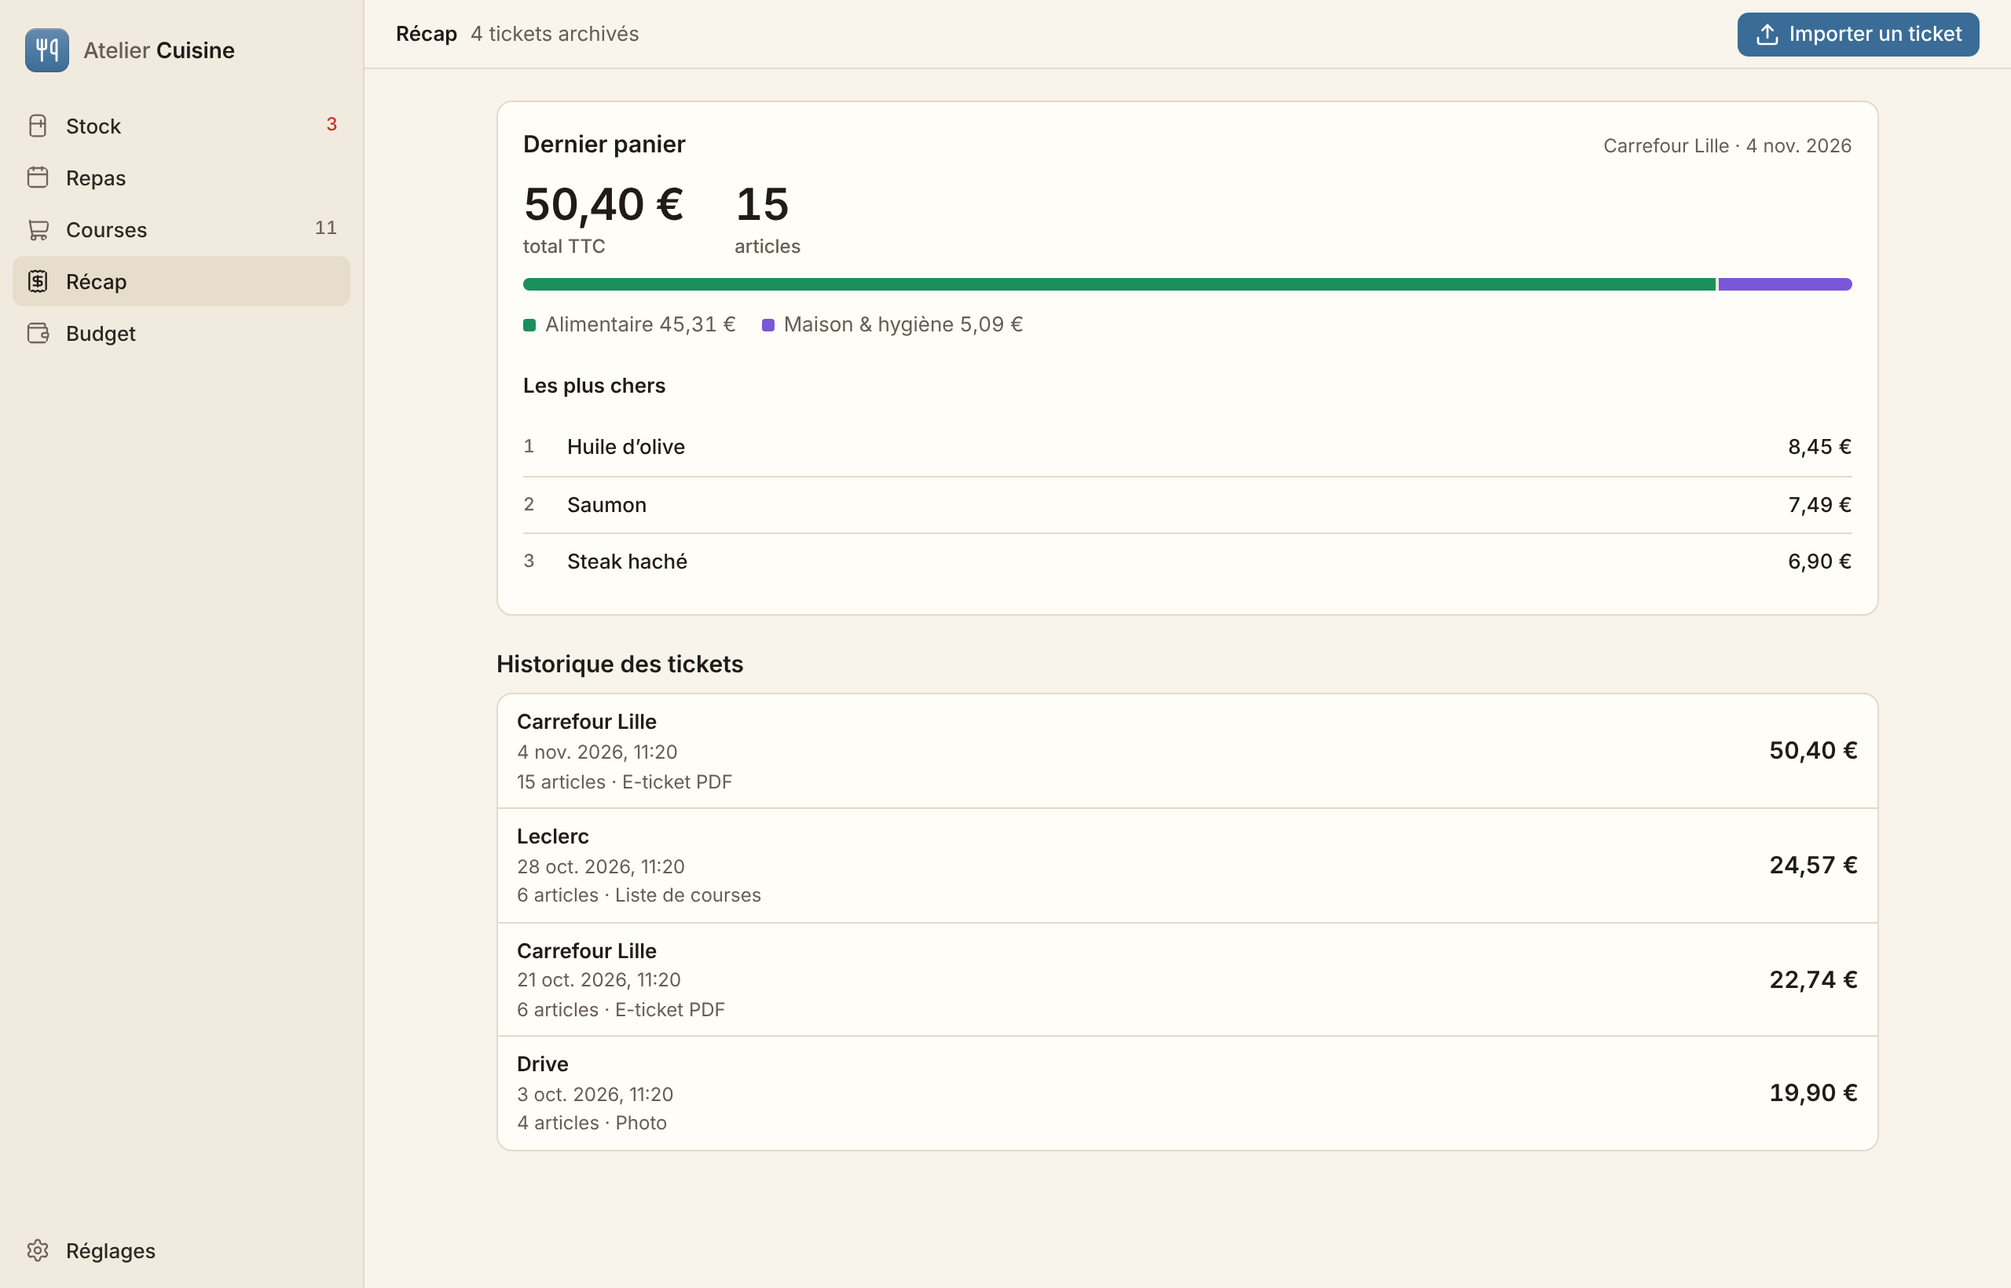
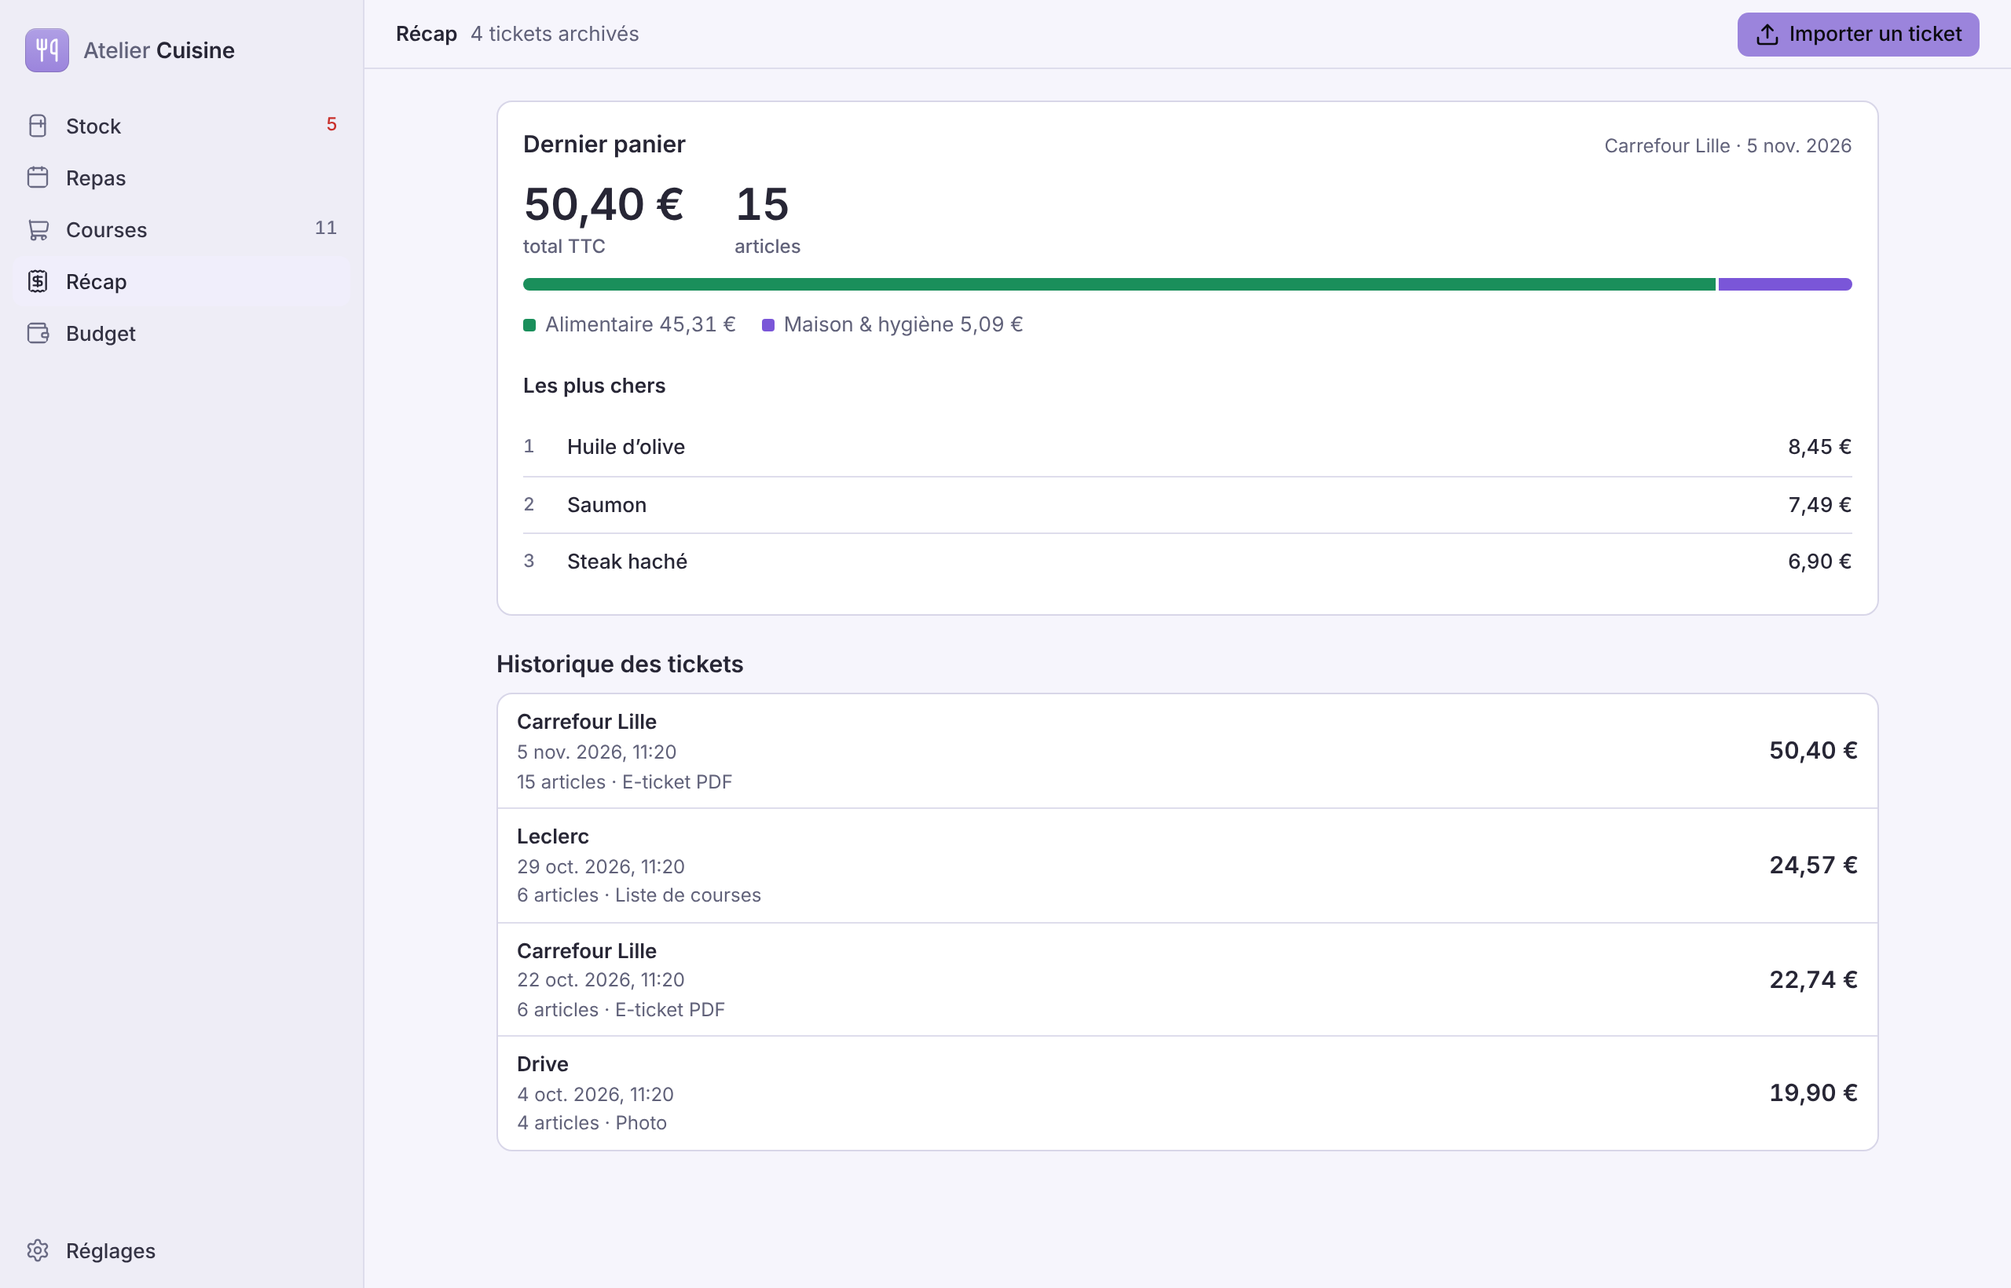
docs(design): couleurs d'avant la v2, lilas pastel
DESIGN.md, CLAUDE.md et README décrivent la structure teintée de lilas,
la signature #9b84dc / #c8b5f2, le bleu « mis en boîte » et la jauge
Sorties / Resto neutre ; captures refaites avec des données simulées.

Claude-Session: https://claude.ai/code/session_01H9uGifEaXxkMuqMiB9L3cZ

diff --git a/design/DESIGN.md b/design/DESIGN.md
@@ -6,11 +6,13 @@ L'app de cuisine du foyer d'Auré et François : le stock du frigo et des placar
 
 ## Direction : charte v2 « Linear » de la suite Atelier
 
-L'app suit le système commun de la suite (règles complètes : `Atelier_Deploy/DESIGN.md`, contrat : `Atelier_Projets/docs/SUITE.md` §1) : plate au repos, traits de 1 px, police Inter, clair et sombre. Comme les deux autres apps du foyer (Dates et Suivi), Cuisine prend la **palette du foyer** (§3 bis de `atelier-brand.css`) : fond **crème** en clair (`#f8f4ec`), **bleu nuit** en sombre (`#0b1220`), au lieu des gris froids des autres apps. Chaque app garde **sa couleur signature comme seul accent** ; pour Cuisine, le **bleu acier `#3a6c97`** (`--atelier-sig-cuisine`, 5,6:1 avec du texte blanc ; avant : lavande `#8568a7`).
+L'app suit le système commun de la suite (règles complètes : `Atelier_Deploy/DESIGN.md`, contrat : `Atelier_Projets/docs/SUITE.md` §1) : plate au repos, traits de 1 px, police Inter, clair et sombre. Comme les deux autres apps du foyer (Dates et Suivi), Cuisine garde **les couleurs d'avant la v2** (choix de François, 7 nov. 2026, à la place de la palette crème / bleu nuit) : **toute l'app est teintée de sa signature**, le **lilas pastel**, en clair comme en sombre. La §3 bis de `atelier-brand.css` dérive fond, barre latérale, surfaces, texte, gris et traits de la signature (formules de la v1, sans halo ni grille) : fond lilas très pâle `#f6f5fc` en clair, quasi noir teinté de lilas `#100f15` en sombre.
 
-- Le bleu acier ne sert qu'à ce qui a un sens : bouton principal (plein, dans les deux thèmes), sélection (puce pressée, type de repas choisi, case cochée), focus, liens, l'icône de l'app, la courbe des prix et la jauge Sorties / Resto (une seule mesure).
+La signature est `#9b84dc` en clair et `#c8b5f2` (plus lumineux) en sombre (`--atelier-sig-cuisine`, posée par la marque commune). Ces lilas sont clairs : le texte posé dessus est quasi noir `#0b0b0f` (6,3:1 en clair, 10,6:1 en sombre).
+
+- La signature ne sert qu'à ce qui a un sens : bouton principal (plein, dans les deux thèmes), sélection (puce pressée, type de repas choisi, case cochée), focus, liens, l'icône de l'app et la courbe des prix (une seule mesure).
 - Pas de halo, de lueur, de grille de fond, de `text-shadow`, de contour lumineux ni de barre de couleur à gauche. Une ombre seulement pour ce qui flotte : feuilles, toasts, bulle du graphique, barre « Valider & archiver ».
-- Navigation : l'onglet courant a un fond neutre (`--atelier-surface-3`, crème foncé ou bleu nuit clair), jamais de couleur.
+- Navigation : l'onglet courant a le fond de sélection de la structure (`--atelier-surface-3`), jamais la signature pleine.
 
 ### Le kit commun
 
@@ -18,7 +20,7 @@ L'app suit le système commun de la suite (règles complètes : `Atelier_Deploy/
 
 - Activation : `<html data-atelier-app="cuisine">` (`frontend/index.html`).
 - Thème : choix **Système / Clair / Sombre** dans Réglages → Apparence, branché sur `window.atelierTheme.set(pref)`. `atelier-theme.js` est inséré tel quel en script bloquant au début de `<head>` par `vite.config.ts` ; il pose `data-theme="light|dark"`, `data-theme-pref` et la classe `dark` avant l'affichage, et garde la préférence dans `localStorage["atelier:theme"]` (cookie `atelier_theme` sur le domaine de la suite quand l'app y est servie). L'ancienne préférence (`theme` dans `atelier.reglages`) est reprise une fois puis retirée.
-- Barre d'état : un petit script d'`index.html` suit `data-theme` et met `theme-color` à `#f8f4ec` (crème, clair) ou `#0b1220` (bleu nuit, sombre), les fonds `--atelier-bg`. Le manifeste PWA et la fenêtre Tauri partent de `#f8f4ec`.
+- Barre d'état : un petit script d'`index.html` suit `data-theme` et met `theme-color` à `#f6f5fc` (clair) ou `#100f15` (sombre), l'équivalent opaque de `--atelier-bg` (5 % de `#9b84dc` dans `#fbfbfd` ; 6 % de `#c8b5f2` dans `#07070a`). Le manifeste PWA et la fenêtre Tauri partent de `#f6f5fc`.
 
 ### Jetons de l'app (`tokens.css`)
 
@@ -33,28 +35,28 @@ Les noms de l'app sont branchés sur le kit ; leurs valeurs suivent le thème to
 | `--contour` / `--trait` / `--ligne` | `--atelier-border` / `-border-soft` / `-line` | cartes ; champs, boutons, puces ; séparateurs |
 | `--encre` / `--encre-2` / `--encre-3` | `--atelier-text` / `-muted` / `-faint` | texte ; secondaire ; méta, icônes au repos |
 | `--signature` / `--signature-survol` | `--atelier-signature` / `-hover` | bouton principal, case cochée, focus |
-| `--signature-texte` | `--atelier-ink` | bleu acier en texte ou en icône (liens, numéros d'étapes) |
-| `--trace` | `--atelier-chart-1` (sombre : 85 % de la signature + blanc) | graphique d'une seule mesure : jauge Sorties / Resto, courbe des prix (≥ 3:1 sur la surface et le rail en sombre) |
+| `--signature-texte` | `--atelier-ink` | lilas en texte ou en icône (liens, numéros d'étapes) |
+| `--trace` | 92 % de la signature + noir (sombre : `--atelier-chart-1`) | courbe des prix (une seule mesure) : 3,8:1 sur la surface en clair, où le lilas pastel seul ne fait que 3,1:1 |
 | `--signature-douce` / `--signature-legere` | `--atelier-signature-soft` / `-faint` | sélection ; ligne du jour dans le semainier |
 | `--ombre-flottant` | `--atelier-glow-strong` | ce qui flotte seulement |
-| `--sur-frais` / `--sur-alerte` | blanc (sombre : `--atelier-bg`) | coche sur le vert « à la maison », chiffre sur le rouge d'alerte : en sombre ces couleurs sont claires, le texte devient bleu nuit |
-| `--frais` / `--bientot` / `--urgent` | `#3DDC97` / `#FFB347` / `#FF5C6C` (clair `#12804F` / `#9A5700` / `#C22838`, un cran plus sombres sur le crème : ≥ 4,5:1 aussi sur les tuiles et pastilles teintées) | fraîcheur (et hausses de prix pour le rouge) |
-| `--boite` | sarcelle `#4FD1C5` (clair `#0E7470`) ; avant bleu, trop proche du bleu acier | produit mis dans une boîte |
+| `--sur-frais` / `--sur-alerte` | blanc (sombre : `--atelier-bg`) | coche sur le vert « à la maison », chiffre sur le rouge d'alerte : en sombre ces couleurs sont claires, le texte prend la couleur du fond |
+| `--frais` / `--bientot` / `--urgent` | `#3DDC97` / `#FFB347` / `#FF5C6C` (clair `#12804F` / `#9A5700` / `#C22838` : orange et rouge un cran plus sombres qu'avant la v2, pour garder 4,5:1 sur le fond lilas pâle, les tuiles et les pastilles teintées) | fraîcheur (et hausses de prix pour le rouge) |
+| `--boite` | bleu `#78B4FF` (clair `#2660C0`, un cran plus sombre que l'ancien `#2F6FD6` : 4,5:1 dans sa pastille) | produit mis dans une boîte |
 | `--data-ali` / `--data-maison` | `#22A86B` / `#9D7BF0` (clair `#1A8F5B` / `#7A56D8`) | budgets Alimentaire / Maison & hygiène |
 
 Densité : les jetons `--t-base`, `--t-champ`, `--h-ctrl`, `--h-ctrl-sm`, `--h-row` valent 15 px / 16 px / 44 / 36 / 52 px au téléphone (cibles tactiles, pas de zoom automatique de Safari) et 13 px / 14 px / 32 / 28 / 40 px sur un écran de 860 px et plus avec une souris.
 
 ### Couleurs de données
 
-- **Fraîcheur** (spec du foyer) : rouge à moins de 2 jours, orange de 2 à 5 jours, **sarcelle** pour un produit mis en boîte. Dans les listes, une pastille de 8 px devant le nom et l'échéance en couleur ; un produit frais reste neutre (seuls les états qui demandent d'agir sont colorés). Les tuiles « À finir en premier » sont à peine teintées de la couleur de leur donnée, le chiffre du compte à rebours dans cette couleur.
-- **Budget** : vert pour l'Alimentaire (rayons 1 à 9), violet pour Maison & hygiène (rayons 10 et 11), bleu acier de la signature pour Sorties / Resto. Le graphique a une légende, une bulle au survol et une vue tableau.
+- **Fraîcheur** (spec du foyer) : rouge à moins de 2 jours, orange de 2 à 5 jours, **bleu** pour un produit mis en boîte. Dans les listes, une pastille de 8 px devant le nom et l'échéance en couleur ; un produit frais reste neutre (seuls les états qui demandent d'agir sont colorés). Les tuiles « À finir en premier » sont à peine teintées de la couleur de leur donnée, le chiffre du compte à rebours dans cette couleur.
+- **Budget** : vert pour l'Alimentaire (rayons 1 à 9), violet pour Maison & hygiène (rayons 10 et 11) ; la jauge Sorties / Resto est neutre (`--encre-3`) : en lilas, elle se confondrait avec le violet de Maison juste à côté. Le graphique a une légende, une bulle au survol et une vue tableau.
 - Le vert « à la maison » marque les ingrédients disponibles (recette, jauge des idées). Le rouge ne sert qu'aux alertes et aux hausses de prix.
 
 ## Typographie
 
-**Inter** variable, embarquée (aucune requête réseau), variantes `cv11` et `ss03`. Hiérarchie portée par la graisse (400 / 500 / 600). Sur Mac : base 13 px, titre d'écran dans la barre haute en 13 px / 600, titres de section 15 px / 600. Au téléphone : base 15 px, titre d'écran 24 px / 600. Étapes de recette en 17 px, interligne 1,6, numérotées dans une pastille bleu acier : elles se lisent à un bras de distance. Chiffres tabulaires pour les montants, dates, quantités et le compte à rebours. Les emoji des rayons et des recettes sont des données du foyer (spec), pas des icônes d'interface : toutes les icônes viennent de Lucide.
+**Inter** variable, embarquée (aucune requête réseau), variantes `cv11` et `ss03`. Hiérarchie portée par la graisse (400 / 500 / 600). Sur Mac : base 13 px, titre d'écran dans la barre haute en 13 px / 600, titres de section 15 px / 600. Au téléphone : base 15 px, titre d'écran 24 px / 600. Étapes de recette en 17 px, interligne 1,6, numérotées dans une pastille lilas : elles se lisent à un bras de distance. Chiffres tabulaires pour les montants, dates, quantités et le compte à rebours. Les emoji des rayons et des recettes sont des données du foyer (spec), pas des icônes d'interface : toutes les icônes viennent de Lucide.
 
-La marque suit le balisage commun : `button.atelier-brand` > `.atelier-brand__tile` (carré arrondi en dégradé du bleu acier, glyphe Lucide `utensils` blanc) + « Atelier » en texte secondaire puis « Cuisine ». Un clic ouvre « À propos » (`dialog.atelier-about`). Composant : `frontend/src/components/Marque.tsx`.
+La marque suit le balisage commun : `button.atelier-brand` > `.atelier-brand__tile` (carré arrondi en dégradé du lilas, glyphe Lucide `utensils` blanc) + « Atelier » en texte secondaire puis « Cuisine ». Un clic ouvre « À propos » (`dialog.atelier-about`). Composant : `frontend/src/components/Marque.tsx`.
 
 ## Les 5 onglets
 
@@ -76,11 +78,11 @@ Mise en page :
 2. **Saisie en une ligne.** « 2 kg de patates » donne quantité, unité, rayon, emplacement et date estimée, grâce au catalogue du foyer.
 3. **Chaque action dit ce qu'elle fait.** « Valider & archiver », « C'est cuisiné », « Confirmer et ajouter au stock & budget » ; le toast reprend le même verbe.
 4. **On vérifie avant d'enregistrer.** Un ticket lu (avec ou sans IA) passe toujours par une modale de vérification ; une déduction de stock se décoche.
-5. **Accessibilité.** Cibles de 44 px au téléphone, anneau de focus bleu acier visible, contrastes vérifiés sur les deux thèmes, `prefers-reduced-motion` et `prefers-reduced-transparency` respectés.
+5. **Accessibilité.** Cibles de 44 px au téléphone, anneau de focus lilas visible, contrastes vérifiés sur les deux thèmes, `prefers-reduced-motion` et `prefers-reduced-transparency` respectés.
 
 ## Icône
 
-L'icône de l'app est la même partout : carré arrondi (rayon 22 %) en dégradé vertical du bleu acier (`#658BAE` → `#3A6C97`, le haut = 78 % de la signature + blanc, comme `.atelier-brand__tile`), glyphe Lucide `utensils` en trait blanc. Sources dans [`icone/`](icone/) :
+L'icône de l'app est la même partout : carré arrondi (rayon 22 %) en dégradé vertical du lilas pastel (`#B09FE5` → `#9B84DC`, le haut = 78 % de la signature + blanc, comme `.atelier-brand__tile`), glyphe Lucide `utensils` en trait blanc. Les icônes d'avant la v2 (cocotte néon dans un cadre chromé, logo Mac avec l'étiquette `atelier_Cuisine` et du cyan) ne sont pas reprises : halo, étincelles et chrome n'ont plus leur place dans la charte plate ; seule leur couleur revient. Sources dans [`icone/`](icone/) :
 
 - `icone-carre.svg` (copie de `frontend/public/icone.svg`) : favicon, PWA, iPhone. Les PNG se régénèrent avec `cd frontend && npm install --no-save sharp && node scripts/icones.mjs`.
 - `icone-mac.svg` et `icone-mac-1024.png` : la même icône sur la grille macOS (carré de 824 px, ombre du système), pour le Dock : `cd frontend && npx tauri icon ../design/icone/icone-mac-1024.png -o src-tauri/icons` (supprimer ensuite les dossiers `android/` et `ios/` générés).

diff --git a/CLAUDE.md b/CLAUDE.md
@@ -25,7 +25,7 @@ Correspondances de noms : `stockLevel` FULL / HALF / ONE_MEAL / LOW → `plein` 
 - TypeScript strict, pas de `any`. Les 11 rayons existent en double (table `aisles` et `frontend/src/lib/rayons.ts`) ; la normalisation des noms aussi (`normaliser.ts` et fonctions SQL) : modifier les deux côtés.
 - Toute nouvelle table : RLS activée, politiques par `user_id`, fonctions SQL en `security invoker` avec `search_path = ''`.
 - Une session de courses validée (liste ou ticket importé) passe toujours par `archiver_courses` : Récap, Stock et Budget restent cohérents.
-- Design : charte v2 « Linear » de la suite Atelier (`design/DESIGN.md`, règles communes dans `Atelier_Deploy/DESIGN.md`) : palette du foyer (comme Dates et Suivi : crème `#f8f4ec` en clair, bleu nuit `#0b1220` en sombre, posée par la marque commune), plate au repos, traits de 1 px, police Inter ; la signature de Cuisine, **bleu acier `#3a6c97`** (`--atelier-sig-cuisine`), ne sert qu'au bouton principal (plein), à la sélection, au focus, aux liens et à l'icône (Lucide `utensils`). Pas de halo, de lueur, de grille de fond ni de barre de couleur à gauche. `frontend/src/styles/atelier-brand/` contient des **copies verbatim** de la suite (`atelier-brand.css`, `atelier-theme.js`, les deux woff2 Inter et leur licence) : ne jamais les éditer ici. `<html data-atelier-app="cuisine">` ; thème = préférence commune Système / Clair / Sombre de `atelier-theme.js` (`window.atelierTheme`, `localStorage["atelier:theme"]`), inséré en tête de `<head>` par `vite.config.ts`, qui pose `data-theme` + classe `dark`. `tokens.css` branche les jetons de l'app sur les `--atelier-*` ; `app.css` porte tous les composants. Les couleurs qui portent un sens ne changent pas : fraîcheur `--frais` / `--bientot` / `--urgent` (seuls l'urgent et le bientôt sont colorés), `--boite` (sarcelle, loin de la signature), budgets `--data-ali` / `--data-maison` ; contrastes vérifiés sur crème et bleu nuit (texte ≥ 4,5:1, graphisme ≥ 3:1). Fonds fixes (`theme-color`, manifeste, fenêtre Tauri) : `#f8f4ec` / `#0b1220`. Cibles tactiles de 44 px au téléphone, densité Mac (13 px, lignes de 40 px) avec une souris.
+- Design : charte v2 « Linear » de la suite Atelier (`design/DESIGN.md`, règles communes dans `Atelier_Deploy/DESIGN.md`) avec les couleurs d'avant la v2 : **toute l'app teintée de lilas pastel**, en clair comme en sombre (fond, barre latérale, surfaces, texte et traits dérivés de la signature par la §3 bis de la marque commune, comme Dates et Suivi), plate au repos, traits de 1 px, police Inter ; la signature de Cuisine, **lilas pastel `#9b84dc` en clair, `#c8b5f2` en sombre** (`--atelier-sig-cuisine`, texte quasi noir `#0b0b0f` sur le bouton plein), ne sert qu'au bouton principal (plein), à la sélection, au focus, aux liens, à la courbe des prix et à l'icône (Lucide `utensils`). Pas de halo, de lueur, de grille de fond ni de barre de couleur à gauche. `frontend/src/styles/atelier-brand/` contient des **copies verbatim** de la suite (`atelier-brand.css`, `atelier-theme.js`, les deux woff2 Inter et leur licence) : ne jamais les éditer ici. `<html data-atelier-app="cuisine">` ; thème = préférence commune Système / Clair / Sombre de `atelier-theme.js` (`window.atelierTheme`, `localStorage["atelier:theme"]`), inséré en tête de `<head>` par `vite.config.ts`, qui pose `data-theme` + classe `dark`. `tokens.css` branche les jetons de l'app sur les `--atelier-*` ; `app.css` porte tous les composants. Les couleurs qui portent un sens ne prennent jamais le lilas : fraîcheur `--frais` / `--bientot` / `--urgent` (seuls l'urgent et le bientôt sont colorés), `--boite` (bleu), budgets `--data-ali` / `--data-maison` (la jauge Sorties / Resto reste neutre, le violet de Maison se confondrait avec le lilas) ; contrastes vérifiés sur les fonds lilas clair et sombre (texte ≥ 4,5:1, graphisme ≥ 3:1). Fonds fixes (`theme-color`, manifeste, fenêtre Tauri) : `#f6f5fc` / `#100f15`. Cibles tactiles de 44 px au téléphone, densité Mac (13 px, lignes de 40 px) avec une souris.
 
 ## Commandes
 

diff --git a/README.md b/README.md
@@ -1,6 +1,6 @@
 # Atelier Cuisine
 
-L'app de cuisine du foyer d'Auré et François : le stock du frigo et des placards avec les dates de péremption, le semainier des repas, la liste de courses, les tickets de caisse archivés et le budget. Une seule app, sur **Mac** (app à double-cliquer) et sur **iPhone** (app sur l'écran d'accueil), synchronisée en direct, dans la charte v2 « Linear » de la suite Atelier : palette du foyer (crème en clair, bleu nuit en sombre), accent bleu acier.
+L'app de cuisine du foyer d'Auré et François : le stock du frigo et des placards avec les dates de péremption, le semainier des repas, la liste de courses, les tickets de caisse archivés et le budget. Une seule app, sur **Mac** (app à double-cliquer) et sur **iPhone** (app sur l'écran d'accueil), synchronisée en direct, dans la charte v2 « Linear » de la suite Atelier : toute l'app teintée de lilas pastel, en clair comme en sombre (les couleurs d'avant la v2).
 
 ![Stock sur Mac](design/captures/mac-1-stock.png)
 
